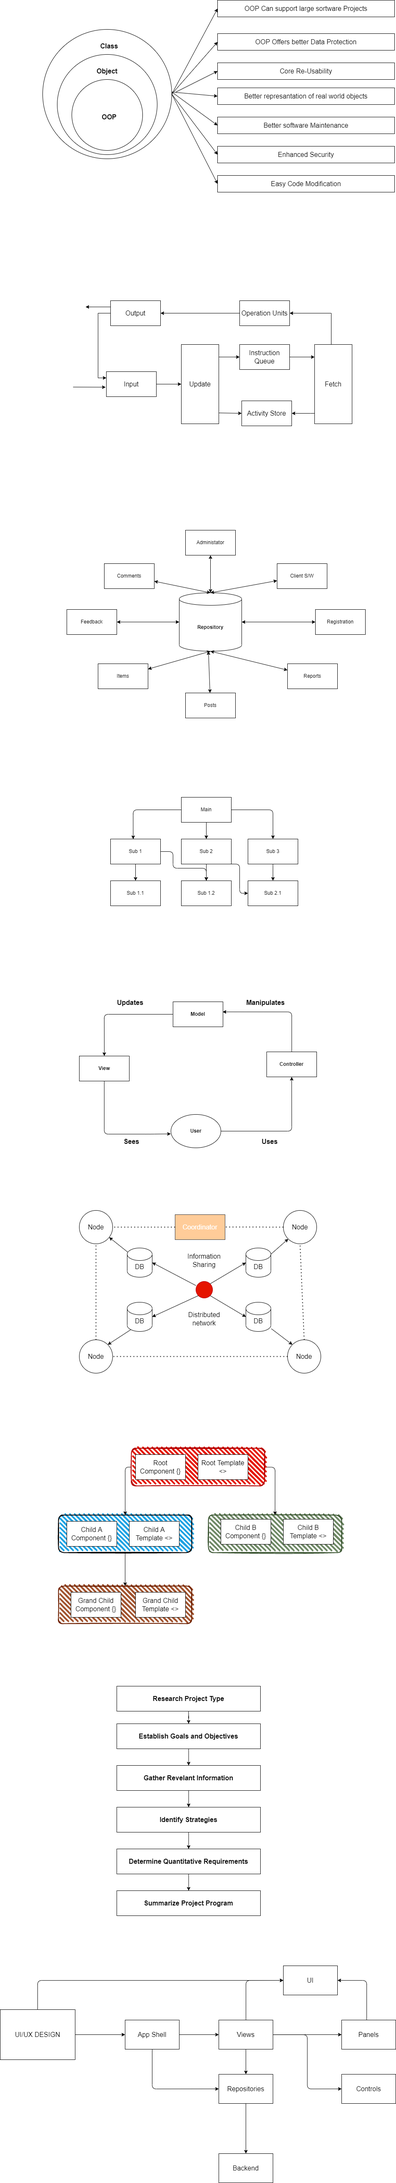
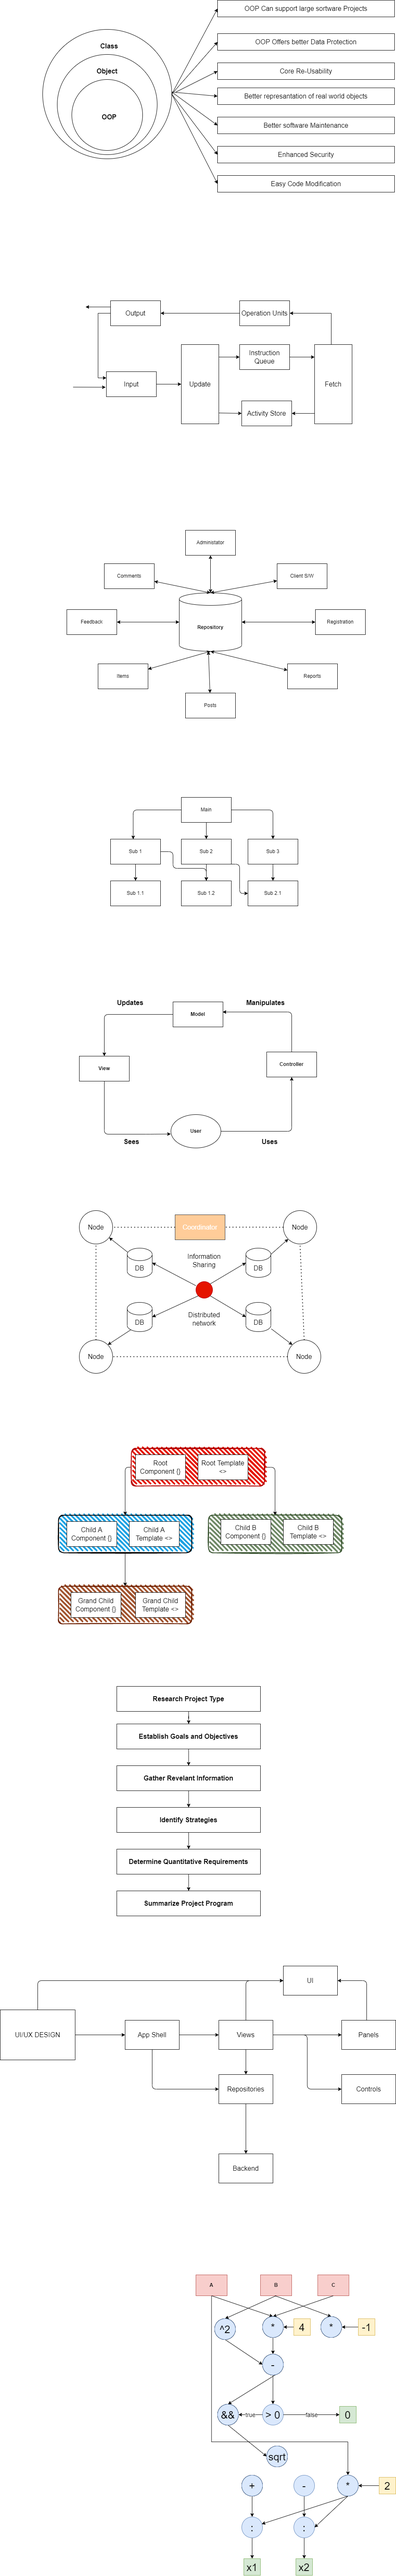
improve data-flow

diff --git a/src/hierarchical/index.ts b/src/hierarchical/index.ts
@@ -1,48 +1,16 @@
+import { Abstraction } from "./abstraction";
+import { ExtendedAbstraction } from "./extended-abstraction";
+import { ImplementationA } from "./implementation-a";
+import { ImplementationB } from "./implementation-b";
 
- class Abstraction {
-    protected implementation: Implementation;
-
-    constructor(implementation: Implementation) {
-        this.implementation = implementation;
-    }
-
-    public operation(): string {
-        const result = this.implementation.operationImplementation();
-        return `Abstraction: Base operation with:\n${result}`;
-    }
-}
-
-class ExtendedAbstraction extends Abstraction {
-    public operation(): string {
-        const result = this.implementation.operationImplementation();
-        return `ExtendedAbstraction: Extended operation with:\n${result}`;
-    }
-}
-
-interface Implementation {
-    operationImplementation(): string;
-}
-
-class ConcreteImplementationA implements Implementation {
-    public operationImplementation(): string {
-        return 'ConcreteImplementationA: Here\'s the result on the platform A.';
-    }
-}
-
-class ConcreteImplementationB implements Implementation {
-    public operationImplementation(): string {
-        return 'ConcreteImplementationB: Here\'s the result on the platform B.';
-    }
-}
-
-function clientCode(abstraction: Abstraction) {
+function logAbstraction(abstraction: Abstraction) {
     console.log(abstraction.operation());
 }
 
-let implementation = new ConcreteImplementationA();
+let implementation = new ImplementationA();
 let abstraction = new Abstraction(implementation);
-clientCode(abstraction);
+logAbstraction(abstraction);
 
-implementation = new ConcreteImplementationB();
+implementation = new ImplementationB();
 abstraction = new ExtendedAbstraction(implementation);
-clientCode(abstraction);
+logAbstraction(abstraction);

diff --git a/src/hierarchical/abstraction.ts b/src/hierarchical/abstraction.ts
@@ -1,0 +1,14 @@
+import { IImplementation } from "./interface";
+
+export class Abstraction {
+    protected implementation: IImplementation;
+
+    constructor(implementation: IImplementation) {
+        this.implementation = implementation;
+    }
+
+    public operation(): string {
+        const result = this.implementation.operationImplementation();
+        return `Abstraction: Base operation with:\n${result}`;
+    }
+}

diff --git a/src/hierarchical/extended-abstraction.ts b/src/hierarchical/extended-abstraction.ts
@@ -1,0 +1,8 @@
+import { Abstraction } from "./abstraction";
+
+export class ExtendedAbstraction extends Abstraction {
+    public operation(): string {
+        const result = this.implementation.operationImplementation();
+        return `ExtendedAbstraction: Extended operation with:\n${result}`;
+    }
+}

diff --git a/src/hierarchical/implementation-a.ts b/src/hierarchical/implementation-a.ts
@@ -1,0 +1,7 @@
+import { IImplementation } from "./interface";
+
+export class ImplementationA implements IImplementation {
+    public operationImplementation(): string {
+        return "ConcreteImplementationA: Here's the result on the platform A.";
+    }
+}

diff --git a/src/hierarchical/implementation-b.ts b/src/hierarchical/implementation-b.ts
@@ -1,0 +1,7 @@
+import { IImplementation } from "./interface";
+
+export class ImplementationB implements IImplementation {
+    public operationImplementation(): string {
+        return "ConcreteImplementationB: Here's the result on the platform B.";
+    }
+}

diff --git a/src/hierarchical/interface/implementation.interface.ts b/src/hierarchical/interface/implementation.interface.ts
@@ -1,0 +1,3 @@
+export interface IImplementation {
+    operationImplementation(): string;
+}

diff --git a/src/hierarchical/interface/index.ts b/src/hierarchical/interface/index.ts
@@ -1,0 +1,1 @@
+export * from './implementation.interface';

diff --git a/README.md b/README.md
@@ -38,15 +38,10 @@ The major motivating factor in the invention of object-oriented approch is to re
 ## ⌛ Data Flow Architecture
 
 <p>
-Dataflow programming (DFP) introduces a new programming paradigm that
-internally represents applications as a directed graph, similarly to a dataflow
-diagram. Applications are represented as a set of nodes (also called blocks) with
-input and/or output ports in them. These nodes can either be sources, sinks or
-processing blocks to the information flowing in the system. Nodes are connected
-by directed edges that define the flow of information between them. Most visual
-programming languages that use a block-based architecture for representing their
-workflow are indeed based on DFP .Several advantages are inherited with such
-model, as presented in this paper.
+In dataflow control architectures there is no concept of "sequence of instructions", no Instruction Pointer, there is not even addressable memory in the usual sense. A program in a streaming system is not a set of commands, but a computational graph. Each node in the graph is an operator or set of operators, and the branches reflect the dependencies of the nodes on the data. The next node starts running as soon as all its input data is available. This is one of the main principles of dataflow: the execution of instructions for data readiness.
+<br>
+<br>
+Here is an example of a graph for calculating the roots of a quadratic equation.
 </p>
 
 <p align="center">
